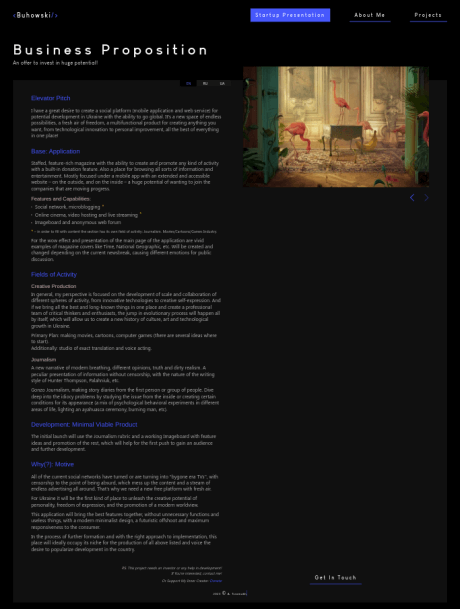
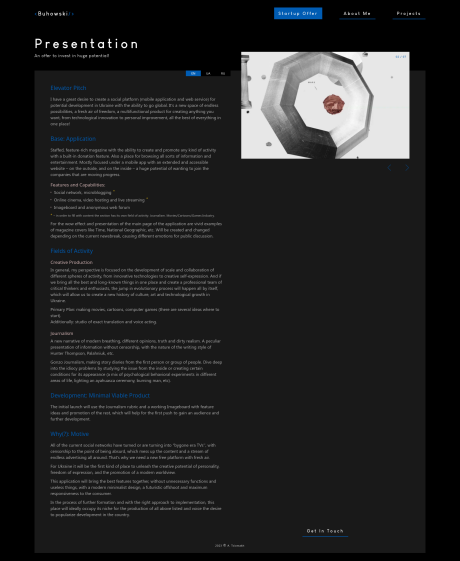
add new gifs to presentation

diff --git a/src/pages/idea/Slider.tsx b/src/pages/idea/Slider.tsx
@@ -1,107 +1,35 @@
 import { Component } from 'react';
-import sliderImg1 from './images/barcode-art.jpg';
-import sliderImg2 from './images/bridge.jpg';
-import sliderImg3 from './images/cat.jpg';
-import sliderImg5 from './images/einstein.jpg';
-import sliderImg6 from './images/flamingo.jpg';
-import sliderImg7 from './images/paper.jpg';
-import sliderImg8 from './images/Image-for-ai.jpg';
-import sliderImg12 from './images/Retro-Pineapples-Cats-Creative-Clock-Parrots-Pocket-watch.jpg';
-import sliderImg11 from './images/writer.jpg';
-import sliderImg13 from './images/sea.jpg';
-import sliderImg15 from './images/startup.jpg';
-import sliderImg16 from './images/teresa.jpg';
-import sliderImg18 from './images/flowers.jpg';
-import sliderImg19 from './images/guitar.jpg';
-import sliderImg20 from './images/jump.jpg';
-import sliderImg22 from './images/robotics.jpg';
-import sliderImg23 from './images/two-sides.jpg';
-import sliderImg24 from './images/writer-sea.jpg';
-
 import PopupContacts from './PopupContacts';
+
+const imageFiles = [
+	'typing.gif',
+	'draw.gif',
+	'balance.gif',
+	'space.gif',
+	'routine.gif',
+	'geometric.gif',
+	'metaverse.webp',
+];
+
+const altTexts = [
+	'typing',
+	'draw',
+	'balance',
+	'space',
+	'routine',
+	'geometric',
+	'metaverse',
+];
 
 interface ImageData {
 	imgSrc: string;
 	imgAlt: string;
 }
 
-const dataImgs: ImageData[] = [
-	{
-		imgSrc: sliderImg1,
-		imgAlt: 'ai picture',
-	},
-	{
-		imgSrc: sliderImg2,
-		imgAlt: 'einstein picture',
-	},
-	{
-		imgSrc: sliderImg3,
-		imgAlt: 'architect picture',
-	},
-	{
-		imgSrc: sliderImg5,
-		imgAlt: 'mona-cat picture',
-	},
-	{
-		imgSrc: sliderImg6,
-		imgAlt: 'ow picture',
-	},
-	{
-		imgSrc: sliderImg7,
-		imgAlt: 'paint picture',
-	},
-	{
-		imgSrc: sliderImg8,
-		imgAlt: 'paper picture',
-	},
-
-	{
-		imgSrc: sliderImg11,
-		imgAlt: 'write picture',
-	},
-	{
-		imgSrc: sliderImg12,
-		imgAlt: 'chinking picture',
-	},
-	{
-		imgSrc: sliderImg13,
-		imgAlt: 'chinking picture',
-	},
-	{
-		imgSrc: sliderImg15,
-		imgAlt: 'chinking picture',
-	},
-	{
-		imgSrc: sliderImg16,
-		imgAlt: 'chinking picture',
-	},
-
-	{
-		imgSrc: sliderImg18,
-		imgAlt: 'chinking picture',
-	},
-	{
-		imgSrc: sliderImg19,
-		imgAlt: 'chinking picture',
-	},
-	{
-		imgSrc: sliderImg20,
-		imgAlt: 'chinking picture',
-	},
-
-	{
-		imgSrc: sliderImg22,
-		imgAlt: 'chinking picture',
-	},
-	{
-		imgSrc: sliderImg23,
-		imgAlt: 'chinking picture',
-	},
-	{
-		imgSrc: sliderImg24,
-		imgAlt: 'chinking picture',
-	},
-];
+const dataImgs: ImageData[] = imageFiles.map((file, index) => ({
+	imgSrc: require(`./images/${file}`),
+	imgAlt: altTexts[index],
+}));
 
 class SliderContainer extends Component {
 	state = {

diff --git a/src/pages/idea/Idea.scss b/src/pages/idea/Idea.scss
@@ -426,7 +426,7 @@
 	width: 100%;
 	overflow: hidden;
 	position: relative;
-	margin-top: -45px;
+	margin-top: -70px;
 	display: flex;
 	flex-direction: column;
 	align-items: center;
@@ -447,13 +447,14 @@
 	transition: transform 0.4s ease-in;
 	position: relative;
 	overflow: hidden;
+	pointer-events: none;
 
 	@include tabletBig {
-		height: 250px;
+		height: 300px;
 	}
 
 	@include tabletSmall {
-		height: 150px;
+		height: 200px;
 	}
 }
 
@@ -488,7 +489,7 @@
 	position: absolute;
 	top: 12px;
 	right: 12px;
-	color: $black;
+	color: $blue-main;
 	font-weight: bold;
 }
 
@@ -498,7 +499,7 @@
 	padding: 5px;
 	align-self: flex-end;
 	margin-top: 20px;
-	margin-bottom: 30px;
+	// margin-bottom: 30px;
 
 	@include tabletBig {
 		position: absolute;
@@ -509,8 +510,11 @@
 }
 
 .slider-btn-js {
+	padding: 10px;
+	margin-top: -10px;
+	margin-right: -10px;
 	@include tabletBig {
-		padding: 10px;
+		margin: 0;
 		background: $black;
 		border-radius: 50%;
 	}
@@ -546,6 +550,7 @@
 
 	&-prev {
 		margin-right: 20px;
+
 		@include tabletBig {
 			margin-right: 10px;
 		}

diff --git a/src/styles/_variables.scss b/src/styles/_variables.scss
@@ -10,7 +10,7 @@ $darken: #202020;
 $darker: #191919;
 $darkest: #111111;
 // $blue-main: #4758fc;
-// $blue-main: #9400FF;
+// $colors: #9400FF  #37ff8b;
 $blue-main: #005cb3;
 $snow: #ffffff;
 $red: #af0303;
